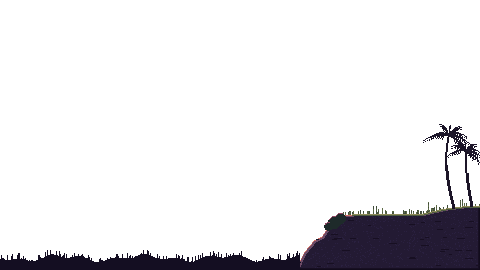
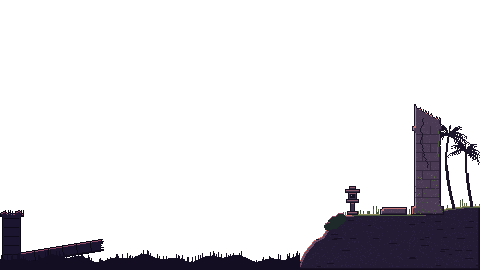
Title ruins; fix invisible dialogue portraits
- Title scene: ruins in the valley haze (a temple whose top has fallen, a
  broken colonnade still carrying one lintel, scattered blocks), a tall
  broken gate pillar on the cliff with carved bands, a crack, moss and a
  vine, a fallen lintel, an unlit stone lantern, and a broken stump and
  fallen column in the dark foreground. The Sundanese A carved in the
  pillar glows cyan and breathes (title_pillar_glyph).
- Bug: speaker faces never showed in dialogue. Since UI v2 the portrait
  frame is a filled well, and it was added after the bust, so it drew
  over the face. The frame is now added first; portrait_test checks the
  draw order and that a mapped speaker shows a face.
- ui.md 4.1, HANDOFF.

Claude-Session: https://claude.ai/code/session_01PaGHFkXcj6ngWLdCzNvuFw

Changed region(s): [[0.7812, 0.3852, 0.9375, 0.8], [0.0, 0.7704, 0.2188, 0.9778], [0.7188, 0.6815, 0.75, 0.8]]

diff --git a/tools/gen_ui_dusk.py b/tools/gen_ui_dusk.py
@@ -694,6 +694,54 @@ def candi_shape(px, cx, base_y, s, col, cap, w, h):
         px[cx, y - k] = cap
 
 
+def broken_candi_mask(w, h, base_y, cx, tiers, break_line, seed, door=True):
+    """A stepped temple whose upper tiers have fallen: tiers drawn bottom up, then everything above a jagged
+    diagonal break is cut away. Returns a 1-bit mask the size of the canvas."""
+    rnd = random.Random(seed)
+    m = Image.new("1", (w, h), 0)
+    d = ImageDraw.Draw(m)
+    y = base_y
+    for half, th in tiers:
+        d.rectangle([cx - half, y - th, cx + half, y - 1], fill=1)
+        y -= th
+    px = m.load()
+    (x0, y0), (x1, y1) = break_line
+    for x in range(w):
+        if x0 == x1:
+            continue
+        t = (x - x0) / (x1 - x0)
+        cut = y0 + (y1 - y0) * t + rnd.choice((0, 0, 1, 2, -1))
+        for yy in range(0, max(0, min(h, int(cut)))):
+            px[x, yy] = 0
+    if door:   # a dark doorway at the foot
+        d.rectangle([cx - 2, base_y - 9, cx + 2, base_y - 1], fill=0)
+        d.rectangle([cx - 1, base_y - 10, cx + 1, base_y - 10], fill=0)
+    return m
+
+
+def valley_ruins(w, h, ground_y):
+    """Mid-ground ruins on the second ridge, in the haze: a temple whose top has fallen, a broken colonnade that
+    still carries one lintel, and scattered blocks. Darker than the ridge, lit only along their upper edges."""
+    base, lit, dark, line = rgb("5A2B4E"), rgb("E08A80"), rgb("4A2442"), rgb("3A1C38")
+    im = new(w, h)
+    gy = ground_y(224)
+    m = broken_candi_mask(w, h, gy, 224, [(30, 9), (26, 9), (22, 9), (18, 8), (14, 7), (10, 7), (6, 6), (3, 5)],
+                          ((192, gy - 52), (256, gy - 24)), 3)
+    md = ImageDraw.Draw(m)
+    for (x, ht) in ((270, 36), (282, 33), (296, 20), (308, 27), (320, 10)):   # colonnade, broken to different heights
+        g = ground_y(x + 2)
+        md.rectangle([x, g - ht, x + 4, g], fill=1)
+        md.rectangle([x - 1, g - 2, x + 5, g], fill=1)                    # base course
+        md.point([x + (4 if ht % 2 else 0), g - ht - 1], fill=1)         # a jagged tooth on the break
+    g = ground_y(276)
+    md.rectangle([267, g - 40, 289, g - 36], fill=1)                      # the one surviving lintel
+    for (x, wd, ht) in ((250, 8, 4), (300, 9, 3), (186, 7, 3), (258, 4, 3), (330, 6, 3)):   # fallen blocks
+        g = ground_y(x)
+        md.rectangle([x, g - ht, x + wd, g], fill=1)
+    im.alpha_composite(shade_mask(m, base, lit, dark, line, lit_dir=(0, -1), seed=4))
+    return im
+
+
 def far(w=480, h=270):
     """Layered ridges receding into the peach haze, a far candi on the middle hill (ui.md 4.1). Each layer is a
     flat colour with an ordered-dither mist band at its foot, never a smooth blend."""
@@ -719,6 +767,10 @@ def far(w=480, h=270):
                 px[x, y] = fill
             if 0 <= top[x] < h:
                 px[x, top[x]] = crest
+        if i == 1:   # ruins stand on the second ridge; the next ridge and its mist hide their feet
+            r_top = top
+            im.alpha_composite(valley_ruins(w, h, lambda x: r_top[max(0, min(w - 1, x))] + 3))
+            px = im.load()
         if i == 0:   # the far candi sits on the high hill of the back ridge
             peak = min(range(240, 360), key=lambda x: top[x])
             candi_shape(px, peak, top[peak] + 2, 1.3, rgb("8E4E66"), rgb("D88A80"), w, h)
@@ -819,6 +871,89 @@ def shade_mask(mask, base, lit, dark, outline, lit_dir=(1, -1), noise=None, seed
     return im
 
 
+def cliff_ruins(w, h, top, seed=6):
+    """On the cliff behind the Wiku: a tall weathered pillar of the old gate, broken at the top, with carved bands,
+    cracks, moss, a fallen lintel and a stone lantern. The carved aksara on its face is a separate sprite
+    (`title_pillar_glyph`) so the game can make it breathe."""
+    rnd = random.Random(seed)
+    im = new(w, h)
+    m = Image.new("1", (w, h), 0)
+    d = ImageDraw.Draw(m)
+    px0, px1, ptop = 414, 440, 104
+    d.rectangle([px0 - 3, top - 8, px1 + 3, top], fill=1)            # plinth
+    d.rectangle([px0, ptop, px1, top - 8], fill=1)                    # shaft
+    d.rectangle([px0 - 2, ptop + 22, px1 + 2, ptop + 26], fill=1)     # carved collar
+    mp = m.load()
+    for x in range(px0 - 3, px1 + 4):   # broken top: a jagged diagonal, higher on the left
+        cut = ptop + (x - px0) * 0.55 + rnd.choice((0, 1, 2, 3))
+        for y in range(0, int(cut)):
+            mp[x, y] = 0
+    for (x, y) in ((px1 + 1, ptop + 40), (px1, ptop + 41), (px0 - 1, ptop + 70)):   # chips out of the edge
+        mp[x, y] = 0
+    d.rectangle([382, top - 7, 406, top], fill=1)                     # fallen lintel, half sunk in the grass
+    d.rectangle([380, top - 5, 383, top], fill=1)
+    pil = shade_mask(m, rgb("4A3A54"), rgb("C77878"), rgb("2C2238"), rgb("170F22"), lit_dir=(-1, -1),
+                     noise=rgb("54445E"), seed=seed)
+    pp = pil.load()
+    for y in range(ptop + 30, top - 10, 9):   # block courses with staggered joints
+        for x in range(px0 + 2, px1 - 1):
+            if pp[x, y][3]:
+                pp[x, y] = rgb("34283F")
+        jx = px0 + (8 if (y // 9) % 2 else 16)
+        for k in range(1, 9):
+            if pp[jx, y - k][3]:
+                pp[jx, y - k] = rgb("34283F")
+    cx = px0 + 9   # a crack running down from the break
+    for y in range(ptop + 14, ptop + 64):
+        cx += rnd.choice((-1, 0, 0, 1))
+        cx = max(px0 + 3, min(px1 - 3, cx))
+        if pp[cx, y][3]:
+            pp[cx, y] = rgb("1C1428")
+    for _ in range(90):   # moss and creepers on the plinth and the lower shaft
+        x = rnd.randrange(px0 - 3, px1 + 4)
+        y = top - int(rnd.random() ** 1.8 * 40)
+        if pp[x, y][3] and pp[x, y] != rgb("170F22"):
+            pp[x, y] = rnd.choice((rgb("3E4A3A"), rgb("4C5A40"), rgb("5E6B46")))
+    for k in range(26):   # a vine hanging from the collar
+        x = px1 - 2 + int(math.sin(k / 4.0) * 1.5)
+        y = ptop + 27 + k
+        if pp[x, y][3]:
+            pp[x, y] = rgb("4C5A40")
+    im.alpha_composite(pil)
+    # stone lantern by the cliff edge, unlit for centuries: only the cyan glyph light touches it
+    dd = ImageDraw.Draw(im)
+    lx, ly = 352, top
+    for r_ in [(lx - 5, ly - 3, lx + 5, ly), (lx - 2, ly - 12, lx + 2, ly - 3), (lx - 6, ly - 15, lx + 6, ly - 12),
+               (lx - 4, ly - 22, lx + 4, ly - 15), (lx - 7, ly - 25, lx + 7, ly - 22), (lx - 3, ly - 28, lx + 3, ly - 25)]:
+        dd.rectangle(r_, fill=rgb("3A3048"), outline=rgb("170F22"))
+        dd.line([r_[0] + 1, r_[1] + 1, r_[2] - 1, r_[1] + 1], fill=rgb("8E5A6E"))
+    dd.rectangle([lx - 2, ly - 20, lx + 2, ly - 17], fill=rgb("140E22"))
+    dd.point([lx - 1, ly - 19], fill=CYAN_HALO)
+    return im
+
+
+def pillar_glyph():
+    """Sundanese A carved into the cliff pillar: dim cyan, the title makes it pulse."""
+    f = ImageFont.truetype(str(FONTS / "NotoSansSundanese.ttf"), 16)
+    tmp = Image.new("L", (40, 40), 0)
+    ImageDraw.Draw(tmp).text((6, 4), "\u1B83", font=f, fill=255)
+    tmp = tmp.point(lambda v: 255 if v > 120 else 0)
+    tmp = tmp.crop(tmp.getbbox())
+    im = new(tmp.width + 2, tmp.height + 2)
+    p = im.load()
+    m = tmp.load()
+    for y in range(tmp.height):
+        for x in range(tmp.width):
+            if m[x, y]:
+                p[x + 1, y + 1] = CYAN
+    for y in range(im.height):   # a 1 px halo
+        for x in range(im.width):
+            if p[x, y][3] == 0 and any(0 <= x + dx < im.width and 0 <= y + dy < im.height and p[x + dx, y + dy][3] == 255
+                                       for dx, dy in ((1, 0), (-1, 0), (0, 1), (0, -1))):
+                p[x, y] = with_alpha(CYAN_HALO, 110)
+    return im
+
+
 def near(w=480, h=270, seed=5):
     """The foreground outcrop on the right: dark stone lit along its crest by the horizon, grass on top, a palm and a
     small tree. The Wiku stands on the flat at x 352-420, feet at y 214."""
@@ -881,10 +1016,41 @@ def near(w=480, h=270, seed=5):
 
     palm(452, top - 6, 1.05, 2)
     palm(470, top - 8, 0.8, 5)
+    im.alpha_composite(cliff_ruins(w, h, top))
+    d = ImageDraw.Draw(im)
     # a low shrub at the cliff's left shoulder
     for (cx, cy, r) in ((334, 222, 6), (340, 218, 5), (328, 226, 4)):
         d.ellipse([cx - r, cy - r, cx + r, cy + r], fill=rgb("1E2A2A"))
         d.arc([cx - r, cy - r, cx + r, cy + r], 200, 290, fill=rgb("8E4763"))
+    # bottom left foreground: a broken stump and a fallen column with its drum joints, dark against the valley
+    fm = Image.new("1", (w, h), 0)
+    fd = ImageDraw.Draw(fm)
+    fd.rectangle([2, 214, 20, 270], fill=1)                     # stump
+    fd.rectangle([0, 210, 23, 216], fill=1)                     # its capital
+    fd.polygon([(20, 252), (104, 238), (106, 250), (20, 264)], fill=1)   # fallen shaft, lying toward the valley
+    fp = fm.load()
+    rnd2 = random.Random(9)
+    for x in range(0, 26):   # the stump's top broke off unevenly
+        for y in range(205, 210 + rnd2.choice((0, 1, 2, 3))):
+            if 0 <= x < w:
+                fp[x, y] = 0
+    for y in range(236, 252):   # the shaft's far end is jagged
+        x = 104 + rnd2.choice((-3, -2, -1, 0, 1))
+        for xx in range(x, 110):
+            fp[xx, y] = 0
+    fall = shade_mask(fm, rgb("1C1530"), rgb("8E4763"), rgb("120C1C"), rgb("0A0814"), lit_dir=(0, -1), seed=2)
+    fq = fall.load()
+    for k in range(34, 104, 14):   # drum joints across the shaft
+        y0 = 252 - int((k - 20) * 14 / 84)
+        for t in range(0, 12):
+            x, y = k + int(t * 0.15), y0 + t
+            if 0 <= x < w and y < h and fq[x, y][3] and fq[x, y] != rgb("0A0814"):
+                fq[x, y] = rgb("0F0A18")
+    for y in range(218, 270, 9):   # courses on the stump
+        for x in range(4, 19):
+            if fq[x, y][3]:
+                fq[x, y] = rgb("0F0A18")
+    im.alpha_composite(fall)
     # foreground grass on the left, darkest, so the menu column has quiet ground under it
     for x in range(0, 300):
         gy = 258 + int(3 * math.sin(x / 13.0) + 2 * math.sin(x / 5.0 + 1))
@@ -1232,6 +1398,8 @@ def compose_title(art, hero):
     if hero is not None:
         im.alpha_composite(art["title_glow"].resize((40, 40), Image.NEAREST), (364, 188))
     im.alpha_composite(art["title_near"])
+    pg = art["title_pillar_glyph"]
+    im.alpha_composite(pg, (427 - pg.width // 2, 158))
     if hero is not None:
         im.alpha_composite(hero, (372, 190))
     for key, pos in (("title_glyph_ka", (382, 152)), ("title_glyph_ja", (400, 112)), ("title_glyph_la", (370, 84))):
@@ -1320,6 +1488,7 @@ def main():
     art["title_far"] = far()
     art["title_near"] = near()
     art["title_constellation"] = constellation()
+    art["title_pillar_glyph"] = pillar_glyph()
     for k in GLYPHS:
         art["title_glyph_" + k] = glyph_sprite(k)
     art["logo"] = logo()

diff --git a/.docs/ui.md b/.docs/ui.md
@@ -101,7 +101,7 @@ Same world and palette as the key-art poster, its own composition (not a copy of
 - **Settings card** (dusk panel 240x176 at (20, 22); the logo column fades out under it): Audio (Master, Music, Sound effects, Ambience sliders 0-100 in steps of 5 with the value; the name turns cyan while its slider has focus), Display (Fullscreen on/off, Language). Same `user://settings.cfg` keys as the pause menu's Sistem tab, through `ui/game_settings.gd` (`GameSettings`). The saved fullscreen choice is applied at boot by the title screen.
 - **About card** (240x226): "Aksara Kala · The script of time"; Made by: Muhammad Fatih Zamzami, Muhammad Nafis Yusa', Fahmi Milan Amyar; Made for: BUDAYA GO! 2026, Kompetisi Inovasi Digital Budaya Indonesia, Kementerian Kebudayaan Republik Indonesia; Built with: Godot Engine, Tiny5, Jersey 10 / 15, Noto Sans (SIL OFL). Names and the competition title are not translated.
 - Both cards: Back at the foot, Esc (`ui_cancel`) closes them and focus returns to the menu entry that opened them.
-- **Right two thirds, back to front:** the banded dusk sky with twinkling stars (`title_sky`, `Twinkle`); an aksara written in stars (`title_constellation`: Sundanese Ka thinned to a dotted line with stars on its joints, breathing slowly); layered ridges into the peach haze with a far candi on the middle hill (`title_far`); a dark outcrop on the right with palms (`title_near`). The Wiku (`hero_mage.png` back view) stands on the cliff looking out, a faint cyan pool at the staff.
+- **Right two thirds, back to front:** the banded dusk sky with twinkling stars (`title_sky`, `Twinkle`); an aksara written in stars (`title_constellation`: Sundanese Ka thinned to a dotted line with stars on its joints, breathing slowly); layered ridges into the peach haze with a far candi on the middle hill and, on the second ridge, ruins in the haze: a temple whose top has fallen, a broken colonnade still carrying one lintel, scattered blocks (`title_far`); a dark outcrop on the right with palms, a tall broken pillar of an old gate (carved bands, a crack, moss, a hanging vine), a fallen lintel and an unlit stone lantern; bottom left, a broken stump and a fallen column in the dark foreground (`title_near`). The Sundanese A carved in the pillar (`title_pillar_glyph`) glows cyan and breathes. The Wiku (`hero_mage.png` back view) stands on the cliff looking out, a faint cyan pool at the staff.
 - **Motion:** aksara (`title_glyph_ka/ja/la/ra`) rise from the staff every ~1.7 s, sway and fade over 6 s, whole-pixel positions; cyan motes drift up off the cliff. Intro: up from night, logo rises in, its line, then the menu.
 - The window title is set to "Aksara Kala" at runtime, matching the Godot project name.
 

diff --git a/.docs/HANDOFF.md b/.docs/HANDOFF.md
@@ -105,6 +105,7 @@ Current development status and architecture reference for Aksara Kala as of **20
 ---
 
 ## 6. Next Steps
+00000. **Title ruins + dialogue portrait fix (2026-11-09, untested in Godot):** title scene gained valley ruins (fallen-top temple, colonnade with one lintel, blocks) in `title_far`, a broken gate pillar with a fallen lintel, an unlit lantern and a foreground fallen column in `title_near`, and a breathing carved rune (`title_pillar_glyph`); spec [ui.md](ui.md) 4.1. BUG FIXED: dialogue faces were invisible since UI v2 because `frame_portrait` became a filled well and was added after the bust (drawn over it); `ui/dialogue_box.gd` now adds the frame first, and `portrait_test` checks the order. NEXT: `--import`, `portrait_test`, `ui_test`; talk to Cepot and Semar and check the faces.
 0000. **Title Settings + About (2026-11-09, untested in Godot; [ui.md](ui.md) 4.1):** title menu is now Continue / New Game / Settings / About / Quit. Settings and About are dusk cards in `ui/title.gd`; settings logic moved to `ui/game_settings.gd` (`GameSettings`, static), used by the title and `tab_system.gd` (its method names kept for `menu_test`). Saved fullscreen now applies at boot. New keys `UI_SETTINGS`, `UI_ABOUT`, `UI_ABOUT_MADE_BY/FOR`, `UI_ABOUT_BUILT_WITH` in `ui.csv`. Credits: Muhammad Fatih Zamzami, Muhammad Nafis Yusa', Fahmi Milan Amyar; made for BUDAYA GO! 2026 (Kompetisi Inovasi Digital Budaya Indonesia, Kementerian Kebudayaan RI). NEXT: `--import`, `i18n_test`, `menu_test`; open both cards with mouse and keyboard, drag sliders, toggle fullscreen and language, Esc back.
 000. **UI v3 "Senja" rebrand (2026-11-09, untested in Godot; spec [ui.md](ui.md) 0.1, 4.1, 4.3, 5):**
    - DONE: `tools/gen_ui_dusk.py` regenerates every UI texture under its old file name (no layout moved): dusk panels, wells, keycaps, cyan cursor, amber arrow and Ilmu gem, theme buttons/tabs/slots, the whole `book_*` menu set (paper-era icons recoloured), vignette, pedestal, light cone; new title art (`title_sky`, `title_far`, `title_near`, `title_constellation`, `title_glyph_*`, `title_star*`, `logo`); pixel-art `icon.svg`. Code: `UIFx` palette (v2 names aliased to v3 colours) + `UIFx.sky()` / `motes_layer()`, new `ui/fx/twinkle.gd`, `MenuBook` palette, `theme.tres` colours, title screen rebuilt (logo + menu left, valley + Wiku on a cliff right, glyphs rising from the staff), class select / name entry on the dusk sky, death screen night fade, quest amber in HUD / quest card / dialogue speaker, cyan focus in `LozengeButton`, boot splash colour.
